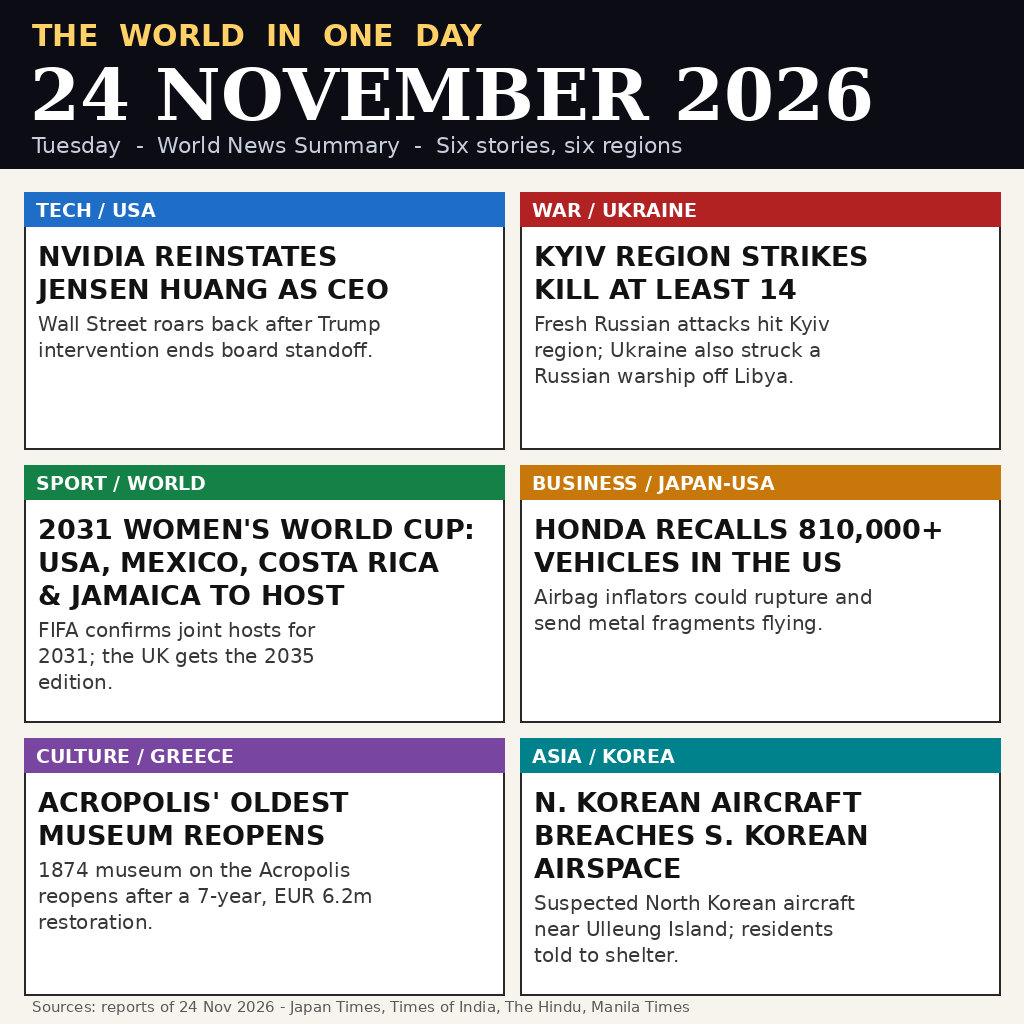
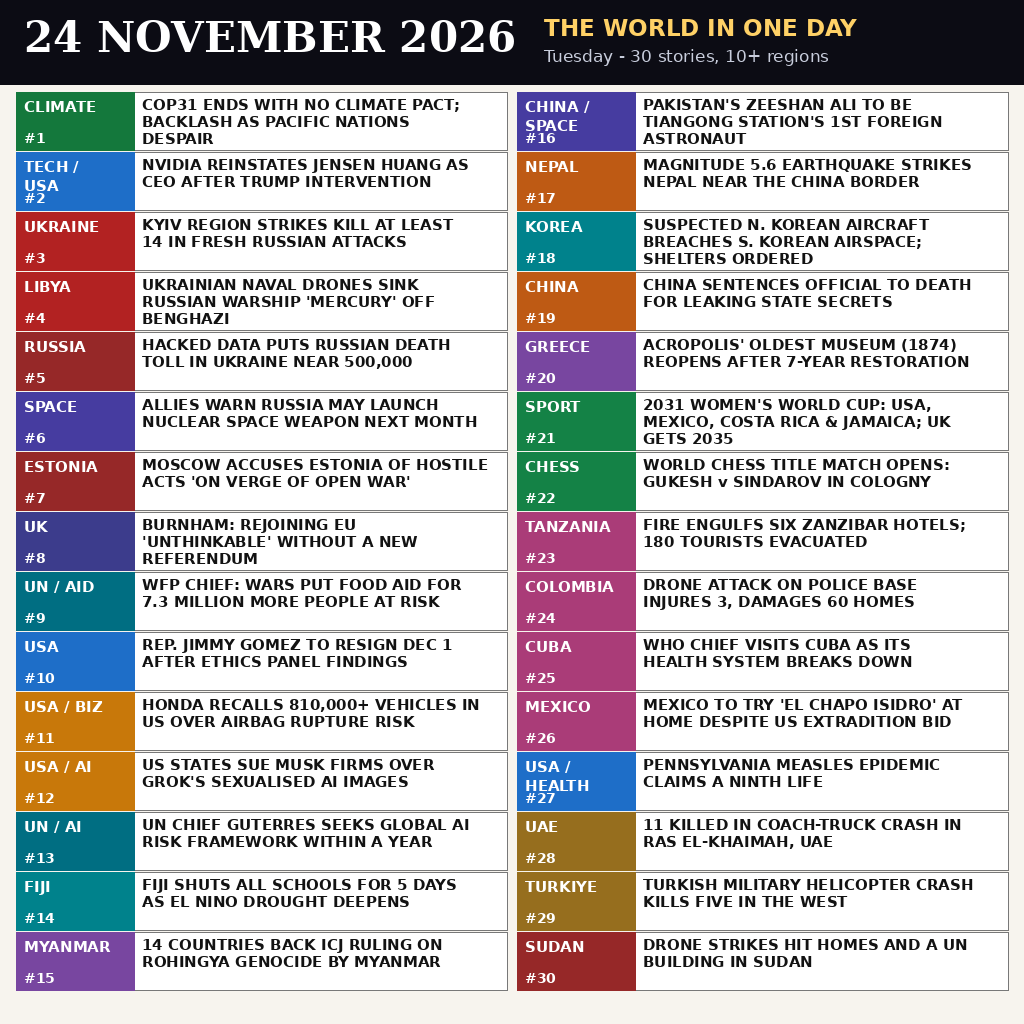
Add files via upload

diff --git a/README.md b/README.md
@@ -7,17 +7,33 @@
 Entry for the make.fun bounty `news-image-20261124`
 ("Sum up 24 November's world news in one image").
 
-`main.ts` copies `entry.png` to the output folder. The image is a
-newspaper-style summary of six stories first reported on
-24 November 2026, checked that morning against the Japan Times,
-Times of India, The Hindu and Manila Times:
+`main.ts` copies `entry.png` to the output folder. Version 2 of the
+image is a dense newspaper-style index of 30 stories reported on
+24 November 2026, across more than ten regions, each checked against
+that day's reporting (Japan Times, Times of India, The Hindu, Manila
+Times, Al Jazeera, PACNEWS and daily world round-ups):
 
-- Nvidia reinstates Jensen Huang as CEO after Trump intervention
-- Kyiv region strikes kill at least 14; Ukraine hits a Russian warship off Libya
-- 2031 Women's World Cup: USA, Mexico, Costa Rica & Jamaica to host; UK gets 2035
-- Honda recalls over 810,000 vehicles in the US over airbag rupture risk
-- Acropolis' oldest museum (1874) reopens after a 7-year restoration
-- Suspected North Korean aircraft breaches South Korean airspace near Ulleung
+COP31 ends with no climate pact; Nvidia reinstates Jensen Huang as
+CEO; Kyiv region strikes kill at least 14; Ukrainian naval drones
+sink the Russian warship Mercury off Benghazi; hacked data puts
+Russia's Ukraine death toll near 500,000; allies warn Russia may
+launch a nuclear space weapon; Moscow accuses Estonia of hostile
+acts; Burnham says rejoining the EU needs a referendum; the WFP warns
+wars put food aid for 7.3 million more at risk; Rep. Jimmy Gomez to
+resign; Honda recalls 810,000+ vehicles in the US; US states sue Musk
+firms over Grok images; the UN chief seeks an AI risk framework; Fiji
+shuts all schools as El Nino drought deepens; 14 countries back the
+ICJ Rohingya ruling; Pakistan's Zeeshan Ali to be Tiangong's first
+foreign astronaut; a magnitude 5.6 quake strikes Nepal; a suspected
+North Korean aircraft breaches South Korean airspace; China sentences
+an official to death for leaking secrets; the Acropolis' oldest
+museum reopens; the 2031 Women's World Cup hosts are confirmed; the
+World Chess title match opens (Gukesh v Sindarov); fire engulfs six
+Zanzibar hotels; a drone attack hits a Colombian police base; the WHO
+chief visits Cuba; Mexico will try 'El Chapo Isidro' at home;
+Pennsylvania's measles epidemic claims a ninth life; 11 killed in a
+Ras el-Khaimah coach crash; a Turkish military helicopter crash kills
+five; drone strikes hit homes and a UN building in Sudan.
 
 The date "24 NOVEMBER 2026" is printed large at the top, as the judge
 weighs a clearly named day most heavily.
